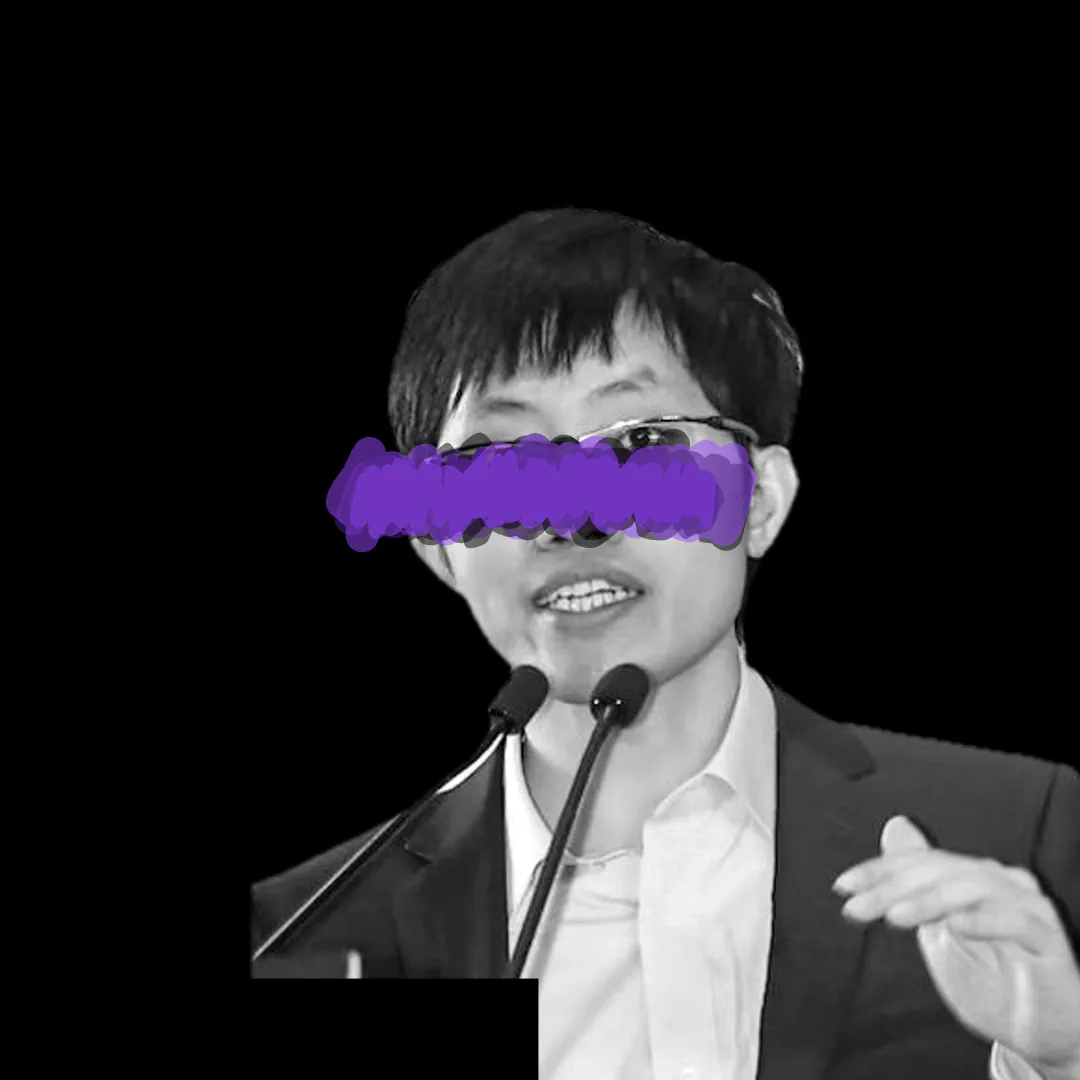
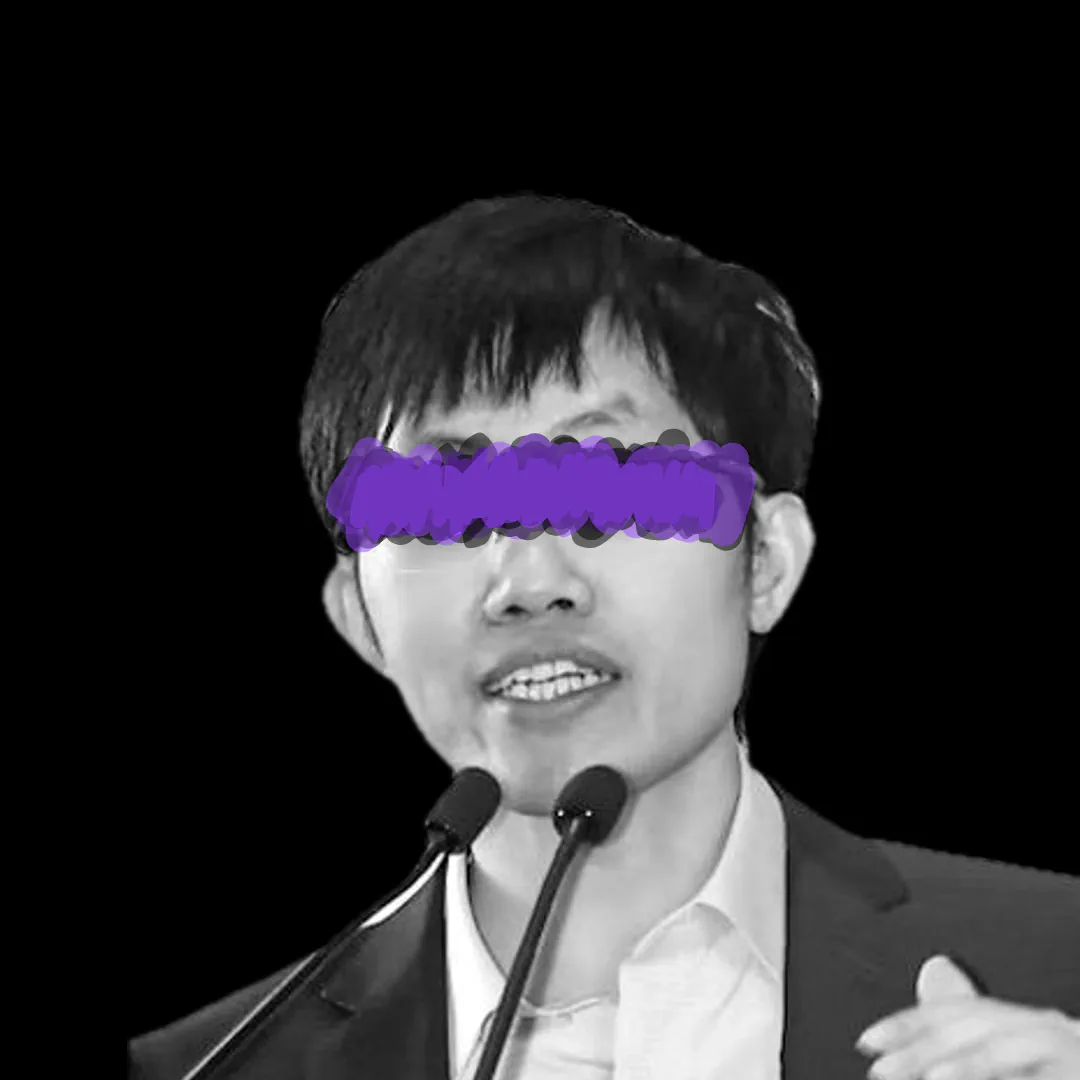
Center real personality portraits by face landmarks

Changed region(s): [[0.1222, 0.1833, 1.0, 1.0], [0.5806, 0.9472, 0.6111, 0.9778]]

diff --git a/scripts/measure-photo-face.swift b/scripts/measure-photo-face.swift
@@ -1,0 +1,79 @@
+#!/usr/bin/env swift
+
+import CoreImage
+import Foundation
+import Vision
+
+guard CommandLine.arguments.count == 2 else {
+    fputs("Usage: measure-photo-face.swift <image>\n", stderr)
+    exit(1)
+}
+
+let imagePath = CommandLine.arguments[1]
+guard let image = CIImage(
+    contentsOf: URL(fileURLWithPath: imagePath),
+    options: [.applyOrientationProperty: true]
+) else {
+    fputs("Could not read image: \(imagePath)\n", stderr)
+    exit(1)
+}
+
+let request = VNDetectFaceLandmarksRequest()
+let handler = VNImageRequestHandler(ciImage: image, options: [:])
+try handler.perform([request])
+
+let width = image.extent.width
+let height = image.extent.height
+let faces = (request.results ?? []).sorted {
+    $0.boundingBox.width * $0.boundingBox.height > $1.boundingBox.width * $1.boundingBox.height
+}
+
+func pixelPoint(_ point: CGPoint, in face: VNFaceObservation) -> CGPoint {
+    let box = face.boundingBox
+    let normalizedX = box.origin.x + point.x * box.width
+    let normalizedY = box.origin.y + point.y * box.height
+    return CGPoint(x: normalizedX * width, y: (1 - normalizedY) * height)
+}
+
+func regionCenter(_ region: VNFaceLandmarkRegion2D?, in face: VNFaceObservation) -> CGPoint? {
+    guard let region, region.pointCount > 0 else { return nil }
+    let points = region.normalizedPoints.map { pixelPoint($0, in: face) }
+    return CGPoint(
+        x: points.map(\.x).reduce(0, +) / CGFloat(points.count),
+        y: points.map(\.y).reduce(0, +) / CGFloat(points.count)
+    )
+}
+
+var rows: [[String: Any]] = []
+for (index, face) in faces.enumerated() {
+    let box = face.boundingBox
+    let x = box.origin.x * width
+    let y = (1 - box.origin.y - box.height) * height
+    let boxWidth = box.width * width
+    let boxHeight = box.height * height
+    let leftEye = regionCenter(face.landmarks?.leftEye, in: face)
+    let rightEye = regionCenter(face.landmarks?.rightEye, in: face)
+    var row: [String: Any] = [
+        "index": index,
+        "confidence": face.confidence,
+        "box": ["x": x, "y": y, "width": boxWidth, "height": boxHeight],
+        "center": ["x": x + boxWidth / 2, "y": y + boxHeight / 2]
+    ]
+    if let leftEye, let rightEye {
+        row["eyes"] = [
+            "left": ["x": leftEye.x, "y": leftEye.y],
+            "right": ["x": rightEye.x, "y": rightEye.y],
+            "center": ["x": (leftEye.x + rightEye.x) / 2, "y": (leftEye.y + rightEye.y) / 2]
+        ]
+    }
+    rows.append(row)
+}
+
+let output: [String: Any] = [
+    "path": imagePath,
+    "width": width,
+    "height": height,
+    "faces": rows
+]
+let data = try JSONSerialization.data(withJSONObject: output, options: [.prettyPrinted, .sortedKeys])
+print(String(decoding: data, as: UTF8.self))

diff --git a/docs/design/personality-portrait-authoring.md b/docs/design/personality-portrait-authoring.md
@@ -41,6 +41,24 @@ node scripts/compose-personality-portrait.mjs \
   --height 1200 --offset-y 0
 ```
 
+Do not center the whole silhouette: shoulders, hair, gestures, or microphones can pull the face
+off-axis. Measure the largest photographed face and its eye landmarks with Apple Vision:
+
+```sh
+swiftc -module-cache-path /tmp/9takes-swift-module-cache \
+  scripts/measure-photo-face.swift -o /tmp/measure-photo-face
+/tmp/measure-photo-face /path/to/cutout.png
+```
+
+Use the reported face `center.x` as `--anchor-x` and the reported eye `center.y` as `--anchor-y`.
+The compositor then places the face at x=540 and the eye line at y=490 by default:
+
+```sh
+node scripts/compose-personality-portrait.mjs \
+  /path/to/cutout.png /path/to/master.png \
+  --height 1200 --anchor-x 540 --anchor-y 420
+```
+
 Visually inspect the 1080×1080 master before generating the WebPs. The compositor uses
 `face-line-template.png` unchanged; placement flags adjust the photographed subject, not the
 template.

diff --git a/docs/content-analysis/portrait-sources/2026-08-25-real-photo-replacements.md b/docs/content-analysis/portrait-sources/2026-08-25-real-photo-replacements.md
@@ -16,3 +16,8 @@ grayscale/contrast adjustment, resizing, and compositing the repository's unchan
 
 The Jonathan Bailey asset remains in the portrait-approval staging area and is not marked as
 published. The other four replace the corresponding full and `s-` production assets.
+
+The 2026-08-25 alignment pass measures the largest photographed face and its eye landmarks with
+Apple Vision, then places the face center at x=540 and the eye line at y=490 on the 1080×1080
+master. This keeps asymmetric shoulders, hair, microphones, and gestures from pulling the face
+off-center. No pixels were generated or reconstructed during the alignment pass.
